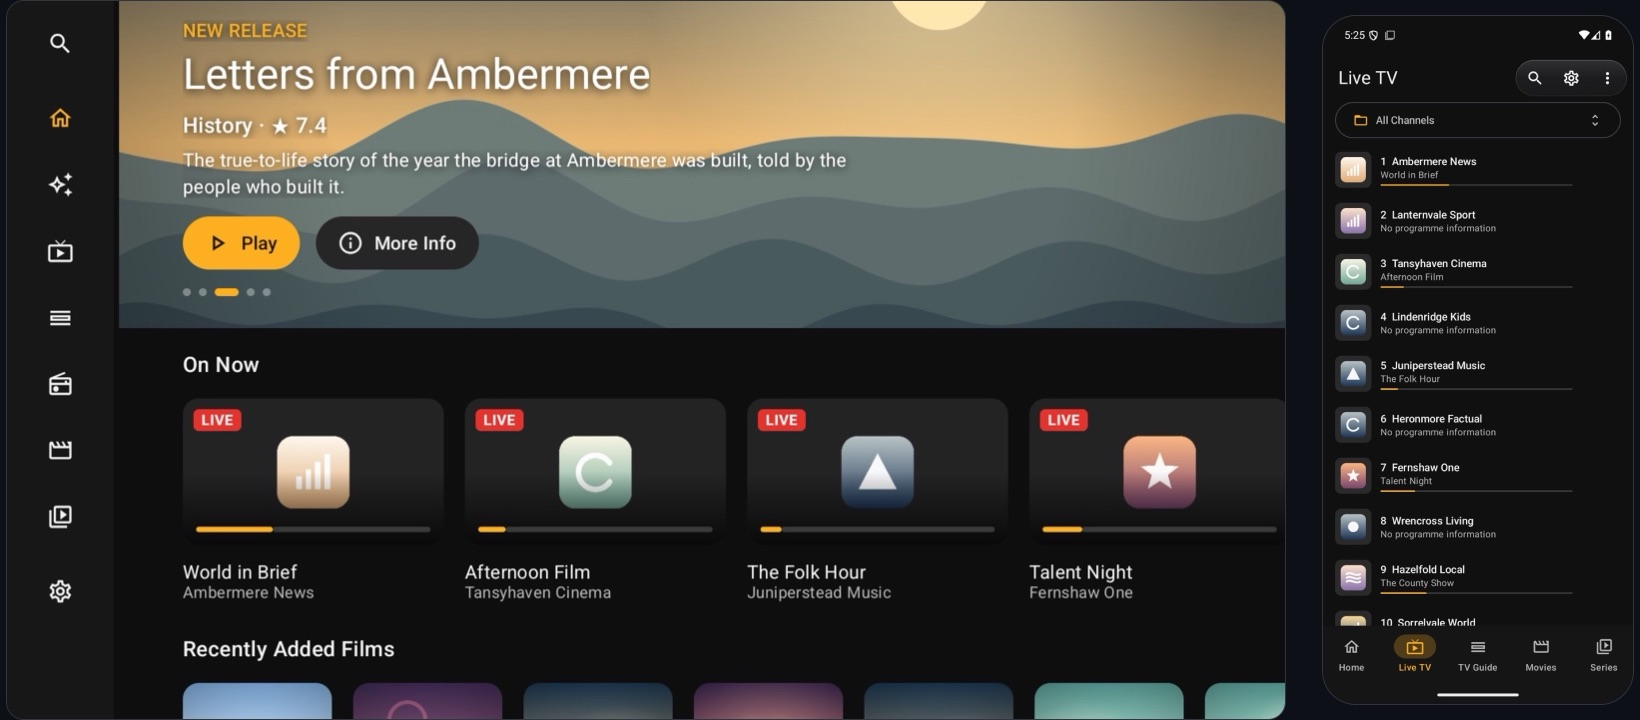
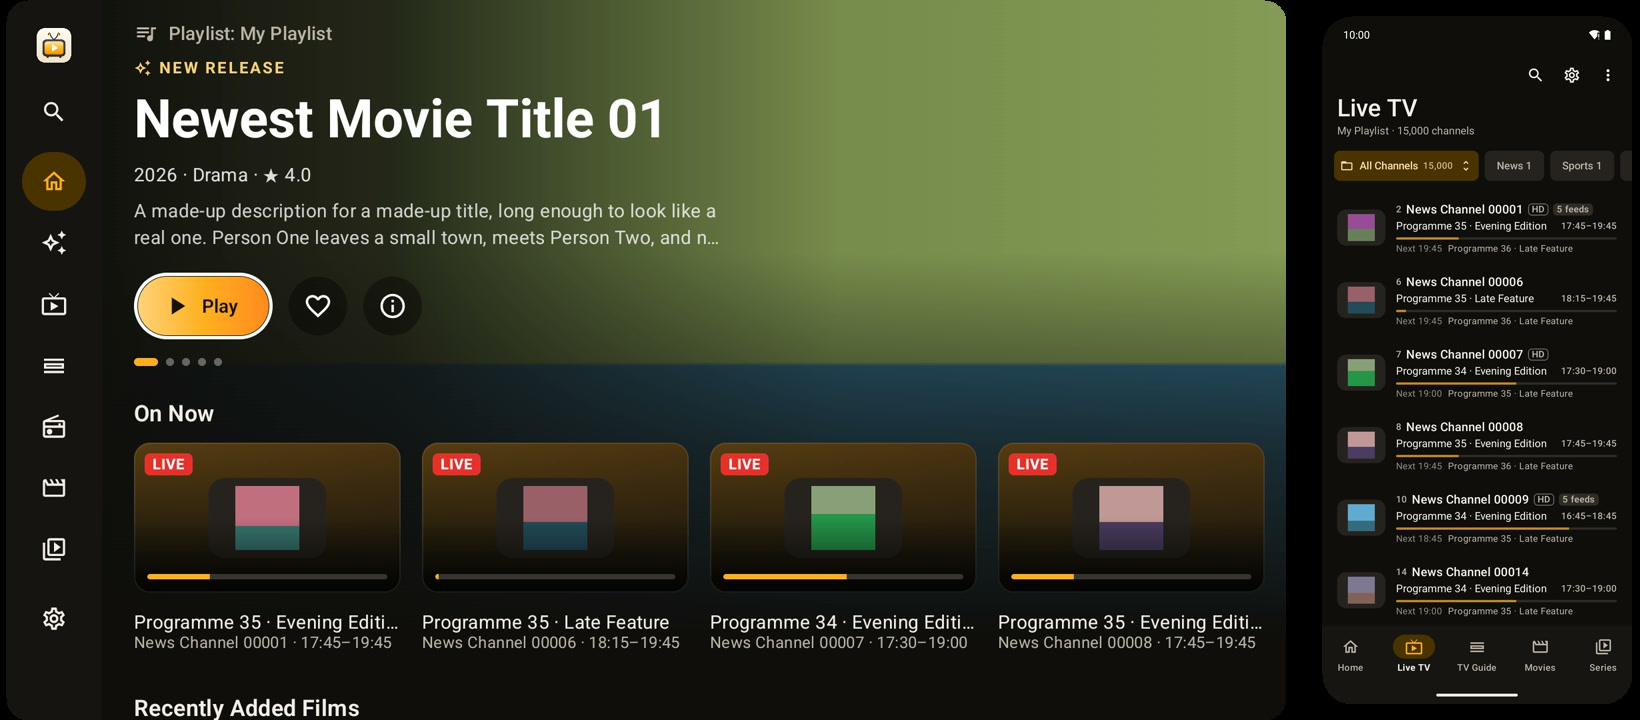
ElBee Player for Android v0.1.9

diff --git a/CHANGELOG.md b/CHANGELOG.md
@@ -10,6 +10,31 @@ whether to update: 3 to 6 bullets, each a whole sentence in everyday words sayin
 Bullet names in the other sections say what changed ("A page for every film"), not just where ("Film page").
 Scripts/publish-release.sh reads it, and scripts/release_notes.py refuses an entry with no "### In short". -->
 
+## v0.1.9: Choose your categories, and Recently Added Series (19 November 2026)
+You can now choose which categories show, one at a time or a whole region at once, and Home has a row of new series.
+
+### In short
+- Categories that start with a region, such as "EU|", now take their country and language from their name, so Show Content In leaves out the ones you don't watch.
+- Settings › Playlists › Manage Categories lets you set a category's country, hide or show a single category, or hide a whole region, including categories your provider adds to it later.
+- A new setting, Hide Categories Without a Country, also hides region categories such as "EU| Mixed" that don't say which country they're for.
+- Home has a new Recently Added Series row after Recently Added Films.
+- On TV, a new Show Content In choice now updates your lists straight away, and the signing-in screen no longer jumps when the app opens.
+
+### Categories
+- **Countries from category names:** a category under a region prefix such as "EU|", or with no prefix, takes its country from the words in its name (English or the country's own name), and that country decides its language and the heading it sits under. Regions such as EU no longer count as English.
+- **More region playlists read right:** countries with no prefix code of their own ("EU | Malta", "EU | Cyprus", "EU | Georgia"), short and native forms ("EU | Czech Cinema", "EU | Turk Spor"), a second region's tag ("EU | EXYU General", "EU | Scandinave"), and the name after a provider's own tag ("24/7 | Turkey", "24/7 | Arabe", "VIP | Latin Sport") now say their language, so Show Content In hides them too. "EU | UK General" goes under United Kingdom. A category whose name says nothing about its language is still shown; set its country or hide it in Manage Categories.
+- **Hide Categories Without a Country:** a new setting in Playlists › Languages, off by default. While Show Content In leaves languages out, it also hides region categories that don't name a country.
+- **Manage Categories:** set any category's country (Automatic, No Country or a country), hide or show one category, or use Hide All / Show All for a whole region. A category can be shown on its own while the rest of its region stays hidden. Choices are kept for each playlist and when it refreshes. On TV everything works with the remote.
+- **Reset Category Choices:** it now also undoes hidden categories and chosen countries and regions, and it keeps your Show Content In choice.
+
+### Home
+- **Recently Added Series:** the newest series, by the same rules as Recently Added Films, with See All. On phones and tablets you can move it or switch it off in Settings › Appearance › Home Screen.
+
+### Fixes
+- **Show Content In on TV:** choosing new languages now refreshes your lists straight away; before, the choice was saved but nothing changed until the next refresh.
+- **Signing in on TV:** the logo stays exactly where it is when the app opens, with "Signing in…" and Cancel centred together under it, so the screen no longer jumps and Cancel never covers the credit at the foot.
+- **Home on phones:** no dark band appears behind the search, settings and menu buttons as you scroll; they float over the page, and what scrolls under them and the status bar fades out softly instead of clashing with them.
+
 ## v0.1.8: A new look on TV, and new film, series and guide pages on phones (18 November 2026)
 Fire TV, Android TV and Google TV get the new design phones got in 0.1.7, and phones and tablets get a page of their own for every film and series.
 
@@ -18,7 +43,7 @@ Fire TV, Android TV and Google TV get the new design phones got in 0.1.7, and ph
 - TV Home opens with the newest films filling the screen, and Live TV shows what's on now and next on every channel, with a preview beside the list.
 - On phones and tablets, every film and series has its own page with its details, cast and More Like This; series list their seasons and episodes.
 - The TV Guide, Movies and Series pages on phones and tablets are redesigned.
-- Fire TV: in-app updates work again on Fire OS 7. If this update fails on your Fire TV, download it once from elbeehq.com/apk with the Downloader app; later updates will then install from the app.
+- Fire TV: in-app updates work again on Fire OS 7. If this update fails on your Fire TV, download it once from elbeehq.com/apk with a browser or a file-transfer app; later updates will then install from the app.
 
 ### TV
 - **Warmer colours:** pages, panels and guide cells use warm near-black shades instead of flat grey. The amber highlight on whatever you've selected is unchanged.
